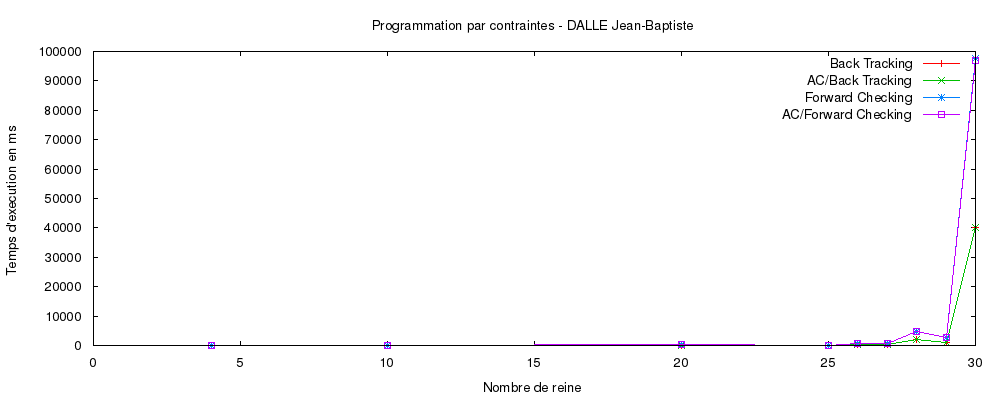
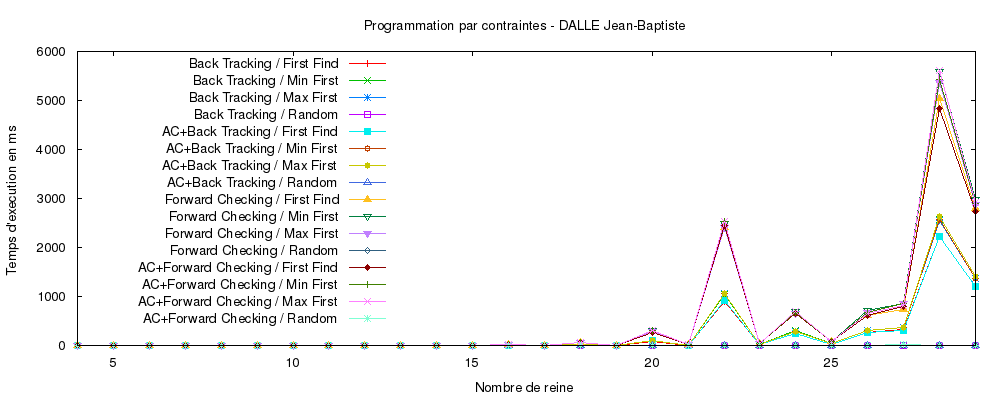
Ajout heuristique, améliroation plot

diff --git a/src/resolution/probleme/MoteurResolution.java b/src/resolution/probleme/MoteurResolution.java
@@ -1,10 +1,9 @@
 package resolution.probleme;
 
-import java.io.FileNotFoundException;
 import java.io.PrintWriter;
-import java.io.UnsupportedEncodingException;
 import java.util.ArrayList;
-import java.util.Arrays;
+import java.util.Collections;
+import java.util.Comparator;
 import java.util.List;
 
 public class MoteurResolution {
@@ -34,15 +33,108 @@ public class MoteurResolution {
 		}
 	}
 
+	public enum HeuristiqueEnum {
+		FF("First Find"), MIN("Min First"), MAX("Max First"), MIN_DOMAIN_SIZE(
+				"Min Domain Size First"), RAND("Random");
+
+		private String label;
+
+		private HeuristiqueEnum(final String label) {
+			this.label = label;
+		}
+
+		public static List<HeuristiqueEnum> getAll() {
+			final List<HeuristiqueEnum> list = new ArrayList<HeuristiqueEnum>();
+			list.add(FF);
+			list.add(MIN);
+			list.add(MAX);
+			list.add(MIN_DOMAIN_SIZE);
+			list.add(RAND);
+			return list;
+		}
+
+		public String getLabel() {
+			return this.label;
+		}
+	}
+
+	private class MinComparator implements Comparator<Integer> {
+		public int compare(Integer arg0, Integer arg1) {
+			if (arg0 > arg1) {
+				return 1;
+			} else if (arg1 > arg0) {
+				return -1;
+			} else {
+				return 0;
+			}
+		}
+	}
+
+	private class MaxComparator implements Comparator<Integer> {
+		public int compare(Integer arg0, Integer arg1) {
+			if (arg0 > arg1) {
+				return -1;
+			} else if (arg1 > arg0) {
+				return 1;
+			} else {
+				return 0;
+			}
+		}
+	}
+
+	private class MinDomainSizeComparator implements Comparator<Integer> {
+		private List<List<Integer>> domain;
+
+		public void setDomain(final List<List<Integer>> domain) {
+			this.domain = domain;
+		}
+
+		@Override
+		public int compare(Integer arg0, Integer arg1) {
+			if (domain.get(arg0).size() > domain.get(arg1).size()) {
+				return 1;
+			} else if (domain.get(arg0).size() < domain.get(arg1).size()) {
+				return -1;
+			} else {
+				return 0;
+			}
+		}
+	}
+
 	private NReine nReine;
 	private int size;
+	private ResolutionEnum resolution;
+	private HeuristiqueEnum heuristique;
+	private Comparator<Integer> comparator;
 
-	public MoteurResolution(Integer size) {
+	public MoteurResolution(Integer size, final ResolutionEnum resolution,
+			final HeuristiqueEnum heuristique) {
 		if (size < 4) {
 			size = 4;
 		}
 		this.nReine = new NReine(size, false);
 		this.size = size;
+		this.resolution = resolution;
+		this.heuristique = heuristique;
+		if (heuristique != null) {
+			switch (heuristique) {
+			case MAX:
+				comparator = new MaxComparator();
+				break;
+			case MIN:
+				comparator = new MinComparator();
+				break;
+			case MIN_DOMAIN_SIZE:
+				comparator = new MinDomainSizeComparator();
+				break;
+			case RAND:
+				comparator = null;
+				break;
+			default:
+				comparator = null;
+				break;
+			}
+		}
 	}
 
 	public List<List<Integer>> generateDomain() {
@@ -67,6 +159,16 @@ public class MoteurResolution {
 			}
 		}
 		return workList;
+	}
+
+	public void sortByComparator(final List<Integer> listToSort) {
+		if (comparator != null) {
+			Collections.sort(listToSort, comparator);
+		} else {
+			if (heuristique == HeuristiqueEnum.RAND) {
+				Collections.shuffle(listToSort);
+			}
+		}
 	}
 
 	public NReine rechercheLocale() {
@@ -98,20 +200,26 @@ public class MoteurResolution {
 		return backtracking(false);
 	}
 
-	public NReine backtracking(final boolean ACFirst) {
+	public NReine backtracking(final boolean AC) {
 		nReine.clear();
-		if (ACFirst) {
-			final List<List<Integer>> domain = AC3();
-			return backtracking(0, domain);
+		List<List<Integer>> domain;
+
+		if (AC) {
+			domain = AC3();
 		} else {
-			return backtracking(0, generateDomain());
+			domain = generateDomain();
 		}
+		if (heuristique == HeuristiqueEnum.MIN_DOMAIN_SIZE) {
+			((MinDomainSizeComparator) comparator).setDomain(domain);
+		}
+		return backtracking(0, domain);
 	}
 
 	private NReine backtracking(final int nthQueen, final List<List<Integer>> domain) {
 		if (nReine.allQueenPlaced()) {
 			return nReine;
 		} else {
+			sortByComparator(domain.get(nthQueen));
 			for (final Integer y : domain.get(nthQueen)) {
 				if (nReine.isSafe(nthQueen, y)) {
 					nReine.addQueen(nthQueen, y);
@@ -178,11 +286,11 @@ public class MoteurResolution {
 
 	public NReine forwardChecking(final boolean AC) {
 		nReine.clear();
+		List<List<Integer>> domain;
 		if (AC) {
-			final List<List<Integer>> domain = AC3();
-			return forwardChecking(domain, 0);
+			domain = AC3();
 		} else {
-			final List<List<Integer>> domain = new ArrayList<List<Integer>>();
+			domain = new ArrayList<List<Integer>>();
 			final List<Integer> list = new ArrayList<Integer>();
 			for (int y = 0; y < size; y++) {
 				list.add(y);
@@ -190,14 +298,18 @@ public class MoteurResolution {
 			for (int x = 0; x < size; x++) {
 				domain.add(x, new ArrayList<Integer>(list));
 			}
-			return forwardChecking(domain, 0);
 		}
+		if (heuristique == HeuristiqueEnum.MIN_DOMAIN_SIZE) {
+			((MinDomainSizeComparator) comparator).setDomain(domain);
+		}
+		return forwardChecking(domain, 0);
 	}
 
 	public NReine forwardChecking(final List<List<Integer>> domain, final Integer nthQueen) {
 		if (nReine.allQueenPlaced()) {
 			return nReine;
 		} else {
+			sortByComparator(domain.get(nthQueen));
 			for (final Integer y : domain.get(nthQueen)) {
 				nReine.addQueen(nthQueen, y);
 				final List<List<Integer>> reduction = reduceDomain(domain, nthQueen, y);
@@ -240,9 +352,13 @@ public class MoteurResolution {
 		}
 	}
 
-	public NReine execute(final ResolutionEnum resolution, final StringBuilder stringBuilder) {
+	public NReine execute(final StringBuilder stringBuilder) {
 		long timeStart = System.currentTimeMillis();
 		final NReine result;
+		if (size > 30 && resolution != ResolutionEnum.RL) {
+			stringBuilder.append("\t");
+			return null;
+		}
 		switch (resolution) {
 		case RL:
 			result = rechercheLocale();
@@ -260,33 +376,63 @@ public class MoteurResolution {
 			result = forwardChecking(true);
 			break;
 		default:
+			stringBuilder.append("\t");
 			return null;
 		}
 		long timeEnd = System.currentTimeMillis();
 		long elapsedTime = timeEnd - timeStart;
-		System.out.println("\tResolution par " + resolution.getLabel() + " obtenue en "
-				+ elapsedTime + "ms");
+		StringBuilder stringBuilder2 = new StringBuilder();
+		stringBuilder2.append("\tResolution par '");
+		stringBuilder2.append(resolution.getLabel());
+		if (heuristique != null) {
+			stringBuilder2.append("' et heuristique '");
+			stringBuilder2.append(heuristique.getLabel());
+		}
+		stringBuilder2.append("' obtenue en ");
+		stringBuilder2.append(elapsedTime);
+		stringBuilder2.append("ms");
+		System.out.println(stringBuilder2.toString());
 		stringBuilder.append(elapsedTime);
 		stringBuilder.append("\t");
 		return result;
 	}
 
 	public static void main(String[] args) {
+		final MoteurResolution m = new MoteurResolution(350, ResolutionEnum.RL,
+				HeuristiqueEnum.RAND);
+		long timeStart = System.currentTimeMillis();
+		final NReine nReine = m.execute(new StringBuilder());
+		long timeEnd = System.currentTimeMillis();
+		long elapsedTime = timeEnd - timeStart;
+		System.out.println(elapsedTime + "ms");
+		System.out.println(nReine.isValid());
+		// System.out.println(nReine);
+	}
+
+	public static void main2(String[] args) {
 		try {
 			final PrintWriter writer = new PrintWriter("moteurResolution.dat", "UTF-8");
-
 			final List<Integer> testedSizes = new ArrayList<Integer>();
-			for (int i = 4; i <= 30; i++) {
+			for (int i = 4; i <= 100; i++) {
 				testedSizes.add(i);
 			}
 			final StringBuilder stringBuilder = new StringBuilder();
 			for (final Integer size : testedSizes) {
 				stringBuilder.append(size);
 				stringBuilder.append("\t");
-				MoteurResolution moteurResolution = new MoteurResolution(size);
 				System.out.println("Moteur de résolution pour le problème " + size + "-queens : ");
 				for (final ResolutionEnum resolution : ResolutionEnum.getAll()) {
-					moteurResolution.execute(resolution, stringBuilder);
+					if (resolution == ResolutionEnum.RL) {
+						final MoteurResolution moteurResolution = new MoteurResolution(size,
+								resolution, null);
+						moteurResolution.execute(stringBuilder);
+					} else {
+						for (final HeuristiqueEnum heuristique : HeuristiqueEnum.getAll()) {
+							final MoteurResolution moteurResolution = new MoteurResolution(size,
+									resolution, heuristique);
+							moteurResolution.execute(stringBuilder);
+						}
+					}
 				}
 				stringBuilder.append(System.getProperty("line.separator"));
 			}
